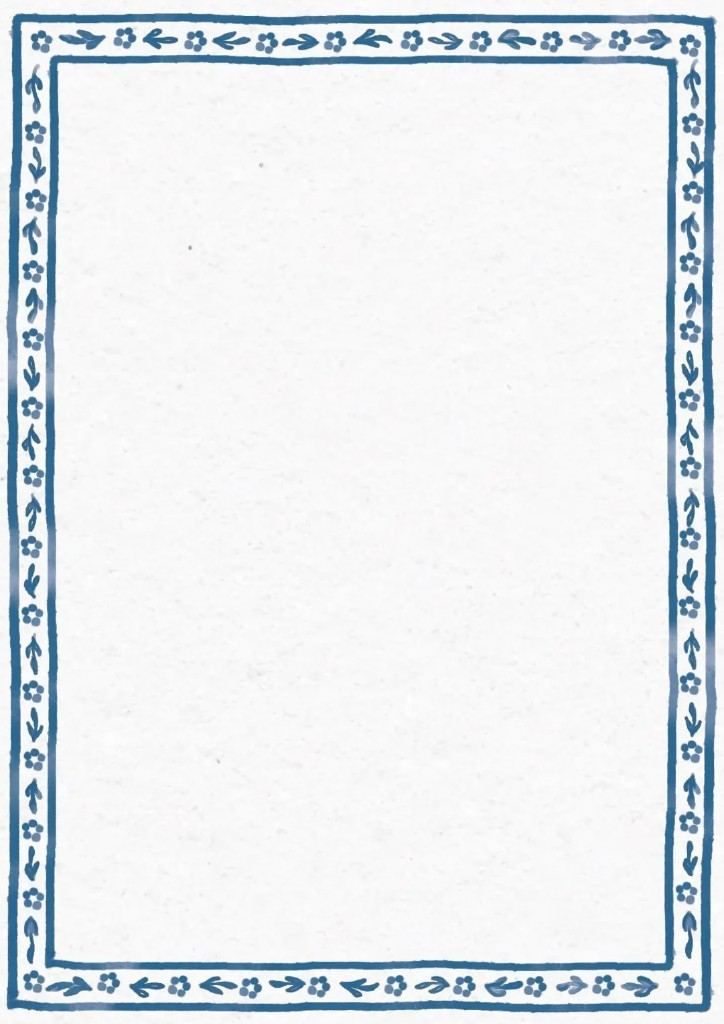
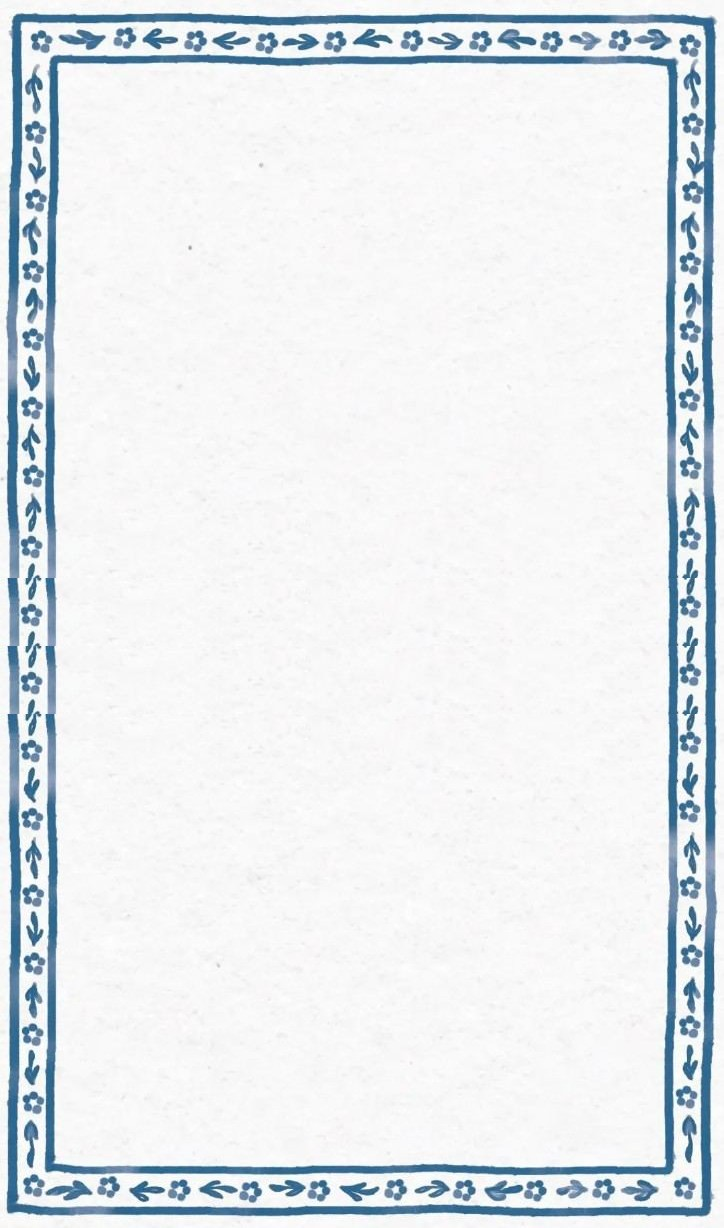
Update quilt-name leaderboard UX, resize contributor frame art, tweak copy
- Filter glued-compound-word quilt names from the voting ballot via AI check, with a length-based fallback
- Fix leaderboard cloud scale CSS vars targeting the wrong element; gate vote counts on having voted
- Restyle the name-cloud kicker as a card and move it below the title; update submissions/voting copy
- Resize contributor cloud frame art to a taller aspect ratio (724x1024 -> 724x1228) and bump cache-busting version
- Shorten the daily quote push notification's new-post suffix
- Suppress dotenv's console tips via DOTENV_CONFIG_QUIET
- Bump Android versionCode to 77

Changed region(s): [[0.0, 0.0, 1.0, 1.0]]

diff --git a/styles/our-daily-beta.css b/styles/our-daily-beta.css
@@ -1028,12 +1028,6 @@
       clip-path: polygon(0.8% 2.4%, 98.6% 0%, 100% 97%, 1.6% 100%);
     }
 
-    #screen-quilt .quilt-name-leaderboard-wrap.qnlb-wrap--submissions .qnlb-submit-panel .qnlb-name-cloud-kicker {
-      margin-top: 0.55rem;
-      margin-bottom: 0;
-      padding-top: 0.15rem;
-    }
-
     #screen-quilt .quilt-name-leaderboard-wrap.qnlb-wrap--submissions .qnlb-name-cloud-stage {
       margin-top: 0.55rem;
     }
@@ -1319,12 +1313,12 @@
       margin: 0.35rem 0 0;
       text-align: center;
       font-family: var(--quilt-dm-sans-font);
-      font-size: clamp(0.82rem, 3.1vw, 1.02rem);
+      font-size: clamp(1rem, 3.7vw, 1.22rem);
       font-weight: 300;
-      font-style: normal;
+      font-style: italic;
       letter-spacing: 0.02em;
       line-height: 1.25;
-      color: rgba(58, 44, 30, 0.48);
+      color: rgba(58, 44, 30, 0.82);
       text-transform: none;
     }
 
@@ -1489,29 +1483,34 @@
       display: block;
       width: 100%;
       max-width: 100%;
-      min-height: 2.85rem;
-      padding: 0.55rem 0.95rem;
+      min-height: 4.1rem;
+      padding: 0.65rem 0.95rem;
       box-sizing: border-box;
       border: none;
       border-radius: 0;
       background: rgba(255, 255, 255, 0.96);
-      color: #2f2924;
-      font-family: var(--quilt-reflection-prompt-button-font);
-      font-size: var(--quilt-reflection-prompt-button-size);
-      font-weight: var(--quilt-reflection-prompt-button-weight);
+      color: #000;
+      font-family: 'Zakarack', Georgia, 'Times New Roman', serif;
+      font-size: calc(var(--quilt-reflection-prompt-button-size) * 1.7);
+      font-weight: 900;
       line-height: var(--quilt-reflection-prompt-button-line-height);
       letter-spacing: normal;
       text-align: center;
       outline: none;
       box-shadow: none;
+      -webkit-text-stroke: 1.1px #000;
+      text-stroke: 1.1px #000;
     }
 
     #screen-quilt .quilt-name-leaderboard-wrap .qnlb-form__input::placeholder {
-      color: rgba(47, 41, 36, 0.46);
+      color: #000;
       font-family: inherit;
       font-style: normal;
-      font-weight: 400;
+      font-weight: 900;
+      font-size: calc(var(--quilt-reflection-prompt-button-size) * 1.7);
       text-align: center;
+      -webkit-text-stroke: 1.1px #000;
+      text-stroke: 1.1px #000;
     }
 
     #screen-quilt .quilt-name-leaderboard-wrap .qnlb-form__input:focus::placeholder {
@@ -1678,21 +1677,37 @@
 
     #screen-quilt .quilt-name-leaderboard-wrap .qnlb-name-cloud-kicker {
       display: block;
-      width: 100%;
-      max-width: 100%;
-      margin: 0 0 0.45rem;
-      padding: 0;
+      width: fit-content;
+      max-width: 92%;
+      margin: 0.5rem auto 0.5rem;
+      padding: 0.5em 0.9em;
       box-sizing: border-box;
       border: 0;
-      border-radius: 0;
-      background: transparent;
-      color: rgba(58, 44, 30, 0.58);
-      box-shadow: none;
+      border-radius: 1px;
+      background-color: var(--qnlb-section-fill, #f2eee6);
+      background-image:
+        var(--quilt-paper-card-texture),
+        repeating-linear-gradient(
+          0deg,
+          rgba(92, 68, 38, 0.028) 0 1px,
+          transparent 1px 3px
+        ),
+        repeating-linear-gradient(
+          90deg,
+          rgba(88, 64, 34, 0.022) 0 1px,
+          transparent 1px 6px
+        );
+      background-size: 118% 118%, 100% 4px, 6px 100%;
+      background-position: center, center, center;
+      background-repeat: no-repeat, repeat, repeat;
+      background-blend-mode: soft-light, normal, normal;
+      color: #050505;
+      box-shadow: 0 2px 7px rgba(0, 0, 0, 0.14);
       font-family: var(--quilt-dm-sans-font);
-      font-size: clamp(0.82rem, 3.1vw, 1.02rem);
-      font-weight: 400;
-      letter-spacing: 0.04em;
-      line-height: 1.15;
+      font-size: calc(var(--qnlb-cloud-base-size, 1) * clamp(0.82rem, 3.1vw, 1.02rem));
+      font-weight: 600;
+      letter-spacing: 0.045em;
+      line-height: 1;
       text-align: center;
       text-transform: uppercase;
       white-space: nowrap;
@@ -8273,7 +8288,7 @@
       --quilt-paper-column-scale: 0.9;
       --quilt-paper-column-max: calc(520px * var(--quilt-paper-column-scale));
       --quilt-paper-column-vw: calc(96vw * var(--quilt-paper-column-scale));
-      --quilt-paper-column-dvh: calc(92dvh * 724 / 1024 * var(--quilt-paper-column-scale));
+      --quilt-paper-column-dvh: calc(92dvh * 724 / 1228 * var(--quilt-paper-column-scale));
       --quilt-float-card-max: calc(460px * var(--quilt-paper-column-scale));
       --quilt-float-card-gutter: 16px;
       /* vw-based so reflection panel matches quote/mood width (not parent %). */
@@ -8766,14 +8781,14 @@
     }
 
     #screen-quilt .quilt-contributors-stage .quilt-contributor-frame {
-      --contributor-frame-inset-top: 7%;
+      --contributor-frame-inset-top: 5.84%;
       --contributor-frame-inset-right: 7.35%;
-      --contributor-frame-inset-bottom: 6.85%;
+      --contributor-frame-inset-bottom: 5.71%;
       --contributor-frame-inset-left: 7.35%;
       position: relative;
       display: block;
       width: 100%;
-      aspect-ratio: 724 / 1024;
+      aspect-ratio: 724 / 1228;
       overflow: hidden;
       isolation: isolate;
     }

diff --git a/server.js b/server.js
@@ -9318,6 +9318,59 @@ function pickLeaderboardEntriesByWords(entries, words) {
   return picked;
 }
 
+// No AI available to judge "reads as multiple words" — length is a rough stand-in
+// (two-word blends like "riverflow" run ~8-11 letters; three-plus-word run-ons like
+// "livinglikeariver" run noticeably longer).
+const QUILT_NAME_LONG_COMPOUND_LENGTH = 14;
+
+function isLikelyGluedCompoundQuiltName(word) {
+  return String(word || '').trim().length > QUILT_NAME_LONG_COMPOUND_LENGTH;
+}
+
+function buildQuiltNameGluedCompoundCheckPrompt(words) {
+  return `These are community-submitted quilt name suggestions (single run-on strings, no spaces allowed at submission time):
+${JSON.stringify(words)}
+
+Flag any word that actually reads as three or more real English words squished together with no spaces (e.g. "livinglikeariver" = living + like + a + river — flag that one).
+
+Do NOT flag single words. Do NOT flag clean two-word blends (e.g. "riverflow", "moonlight", "daydream" are all fine — leave those alone).
+
+Output ONLY a JSON array of the exact submitted words to flag, using the same spelling. Use an empty array if none qualify: ["word1","word2"]`;
+}
+
+async function excludeGluedCompoundQuiltNames({ dateKey, entries }) {
+  const community = normalizeQuiltNameLeaderboardEntries(entries).filter((entry) => entry.source !== 'ai');
+  if (!community.length) return { clean: community, excluded: [] };
+
+  const apiKey = String(process.env.ANTHROPIC_API_KEY || '').trim();
+  const model = String(process.env.ANTHROPIC_MODEL || 'claude-haiku-4-5-20251001').trim();
+  if (apiKey) {
+    try {
+      const words = community.map((entry) => entry.word);
+      const prompt = buildQuiltNameGluedCompoundCheckPrompt(words);
+      const raw = await postReflectionThemesToClaude({ apiKey, model, prompt, maxTokens: 200 });
+      const match = raw.match(/\[[\s\S]*?\]/);
+      if (!match) throw new Error('Claude returned no JSON array');
+      const parsed = JSON.parse(match[0]);
+      if (!Array.isArray(parsed)) throw new Error('Claude compound-check response was not an array');
+      const flagged = new Set(
+        parsed.map((word) => normalizeQuiltNameLeaderboardWord(word).toLowerCase()).filter(Boolean)
+      );
+      return {
+        clean: community.filter((entry) => !flagged.has(entry.word.toLowerCase())),
+        excluded: community.filter((entry) => flagged.has(entry.word.toLowerCase()))
+      };
+    } catch (error) {
+      console.warn(`⚠ AI quilt name glued-compound check failed for ${dateKey}:`, error.message);
+    }
+  }
+
+  return {
+    clean: community.filter((entry) => !isLikelyGluedCompoundQuiltName(entry.word)),
+    excluded: community.filter((entry) => isLikelyGluedCompoundQuiltName(entry.word))
+  };
+}
+
 function fallbackFilterCommunityEntriesForBallot(entries, targetCount, dateKey) {
   const safeTarget = Math.max(0, Math.floor(Number(targetCount) || 0));
   const community = normalizeQuiltNameLeaderboardEntries(entries).filter((entry) => entry.source !== 'ai');
@@ -9629,7 +9682,11 @@ async function generateAiLeaderboardEntries({ dateKey, neededCount, existingWord
 async function buildLeaderboardVotingBallotEntries(dateKey, rawEntries) {
   const targetCount = QUILT_NAME_LEADERBOARD_VOTING_CAP;
   const allEntries = normalizeQuiltNameLeaderboardEntries(rawEntries);
-  const communityEntries = allEntries.filter((entry) => entry.source !== 'ai');
+  const rawCommunityEntries = allEntries.filter((entry) => entry.source !== 'ai');
+  const { clean: communityEntries, excluded: gluedCompoundEntries } = await excludeGluedCompoundQuiltNames({
+    dateKey,
+    entries: rawCommunityEntries
+  });
   let selected = communityEntries;
   let aiFiltered = 0;
 
@@ -9662,6 +9719,7 @@ async function buildLeaderboardVotingBallotEntries(dateKey, rawEntries) {
     submissionEntries: allEntries,
     aiAdded,
     aiFiltered,
+    gluedCompoundExcluded: gluedCompoundEntries.length,
     communityCount: communityEntries.length,
     votingCap: targetCount
   };
@@ -9711,6 +9769,7 @@ async function finalizeLeaderboardSubmissionPhase(dateKey, options = {}) {
     ...(force ? { ballotRebuiltAt: admin.firestore.FieldValue.serverTimestamp() } : {}),
     ...(ballot.aiAdded ? { aiBallotFillCount: ballot.aiAdded } : {}),
     ...(ballot.aiFiltered ? { aiBallotFilterCount: ballot.aiFiltered } : {}),
+    ...(ballot.gluedCompoundExcluded ? { ballotGluedCompoundExcludedCount: ballot.gluedCompoundExcluded } : {}),
     ...(ballot.aiAdded ? { aiFallbackAt: admin.firestore.FieldValue.serverTimestamp() } : {})
   };
   await nameRef.set(nextDoc, { merge: true });
@@ -9720,6 +9779,7 @@ async function finalizeLeaderboardSubmissionPhase(dateKey, options = {}) {
     phase: 'voting',
     aiAdded: ballot.aiAdded,
     aiFiltered: ballot.aiFiltered,
+    gluedCompoundExcluded: ballot.gluedCompoundExcluded,
     submissionEntryCount: ballot.submissionEntries.length,
     communityCount: ballot.communityCount,
     votingBallotCap: ballot.votingCap,

diff --git a/lib/simplified-quilt-app-quilt-name-leaderboard.js b/lib/simplified-quilt-app-quilt-name-leaderboard.js
@@ -324,13 +324,13 @@
       if (!title || !text) return;
 
       if (phase === 'voting') {
-        title.textContent = 'How voting works';
+        title.innerHTML = '<strong>How voting works</strong>';
         text.textContent =
-          `When submissions close, ${QNLB_VOTING_ENTRY_CAP} names are chosen at random from everything submitted that day. Tap a name strip to vote. Vote counts stay hidden until you have voted. Whichever name has the most votes when the day ends becomes the quilt title.`;
+          `The submission window for quilt titles is open for the first 8 hours of every day. Then voting opens: ${QNLB_VOTING_ENTRY_CAP} names are pulled at random. Title with most votes wins.`;
         return;
       }
 
-      title.textContent = 'How submissions work';
+      title.innerHTML = '<strong>How submissions work</strong>';
       text.textContent =
         `For the first 8 hours of each quilt day, anyone can suggest one word to name today's quilt. Names show up below as they come in. When that window closes, ${QNLB_VOTING_ENTRY_CAP} names are picked at random for the vote.`;
     }
@@ -642,9 +642,9 @@
         minScale: 0.38,
         maxScale: 1.2,
         applyScale: (value) => {
-          list.style.setProperty('--qnlb-cloud-base-size', String(value));
+          wrap.style.setProperty('--qnlb-cloud-base-size', String(value));
           const gapScale = value < 0.72 ? Math.max(0.72, value + 0.08) : 1;
-          list.style.setProperty('--qnlb-cloud-gap-scale', String(gapScale));
+          wrap.style.setProperty('--qnlb-cloud-gap-scale', String(gapScale));
         }
       });
     }
@@ -922,8 +922,8 @@
         list.closest('.qnlb-rank-board__slab')?.style.removeProperty('--qnlb-strip-width');
         list.closest('.qnlb-rank-board__slab')?.style.removeProperty('--qnlb-rank-scale-fit');
       } else {
-        list.style.removeProperty('--qnlb-cloud-base-size');
-        list.style.removeProperty('--qnlb-cloud-gap-scale');
+        list.closest('.quilt-name-leaderboard-wrap')?.style.removeProperty('--qnlb-cloud-base-size');
+        list.closest('.quilt-name-leaderboard-wrap')?.style.removeProperty('--qnlb-cloud-gap-scale');
         this.bindQuiltNameLeaderboardLayoutResize();
         this.scheduleFitQuiltNameLeaderboardLayout(list);
       }
@@ -1007,8 +1007,8 @@
     canQuiltNameLeaderboardSubmit(data = {}) {
       if (String(data.phase || 'submissions') !== 'submissions') return false;
       if (data.demo) return false;
-      if (data.canSubmit === false) return false;
       if (data.preview) return true;
+      if (data.canSubmit === false) return false;
       if (data.canSubmit) return true;
       return !!this.isCurrentUserAdmin?.();
     }
@@ -1149,7 +1149,7 @@
       const expanded = wrap?.dataset.qnlbExpanded === '1';
       const collapse = phase === 'submissions' && entries.length > votingCap && !expanded;
       const visibleEntries = collapse ? entries.slice(0, votingCap) : entries;
-      const showVotes = phase === 'voting' || phase === 'final' || !!data.demo;
+      const showVotes = (phase !== 'submissions' && !!myVote) || !!data.demo;
       const winningVoteCount = entries.reduce((best, entry) => {
         const votes = Number(entry.votes) || 0;
         return votes > best ? votes : best;

diff --git a/our-daily-beta.html b/our-daily-beta.html
@@ -1059,7 +1059,6 @@ try {
                     </div>
                     <p class="quilt-reflection-prompt-question qnlb-submit-thanks" id="qnlbSubmitThanks" hidden>Thank you !</p>
                     <p class="qnlb-countdown" id="qnlbCountdown" aria-live="polite"></p>
-                    <p class="qnlb-name-cloud-kicker" id="qnlbListKicker">↓ Names submitted so far ↓</p>
                   </div>
                 </div>
               </form>
@@ -1072,6 +1071,7 @@ try {
                         <h2 class="qnlb-rank-board__title">NAME THIS QUILT</h2>
                         <p class="quilt-before-you-go__prompt qnlb-phase-banner" id="qnlbPhaseBanner" hidden></p>
                       </div>
+                      <p class="qnlb-name-cloud-kicker" id="qnlbListKicker">↓ Names submitted so far ↓</p>
                       <ol class="qnlb-entry-list qnlb-name-cloud" id="qnlbEntryList" aria-label="Quilt name suggestions"></ol>
                       <div class="qnlb-expand-wrap" id="qnlbExpandWrap" hidden>
                         <button class="quilt-before-you-go__link" type="button" id="qnlbExpandBtn"></button>
@@ -1399,12 +1399,12 @@ try {
         <div class="quilt-contributor-panel">
           <div class="quilt-contributor-frame">
             <picture class="quilt-contributor-frame__art" aria-hidden="true">
-              <source srcset="assets/contributor-cloud-frame.webp?v=1" type="image/webp" />
+              <source srcset="assets/contributor-cloud-frame.webp?v=2" type="image/webp" />
               <img
-                src="assets/contributor-cloud-frame.jpg?v=1"
+                src="assets/contributor-cloud-frame.jpg?v=2"
                 alt=""
                 width="724"
-                height="1024"
+                height="1228"
                 decoding="async"
               />
             </picture>

diff --git a/lib/daily-quote-push-time.js b/lib/daily-quote-push-time.js
@@ -45,7 +45,7 @@ function isDailyQuoteDueForToken(tokenData, now, options = {}) {
   return lastSent !== dateKey;
 }
 
-const DAILY_QUOTE_NEW_POST_SUFFIX = ' (+ new STUDIO FLOOR post)';
+const DAILY_QUOTE_NEW_POST_SUFFIX = ' (+ new post)';
 
 function buildDailyQuotePushBody(quoteText, { hasNewPost = false, maxLen = 178 } = {}) {
   const suffix = hasNewPost ? DAILY_QUOTE_NEW_POST_SUFFIX : '';
